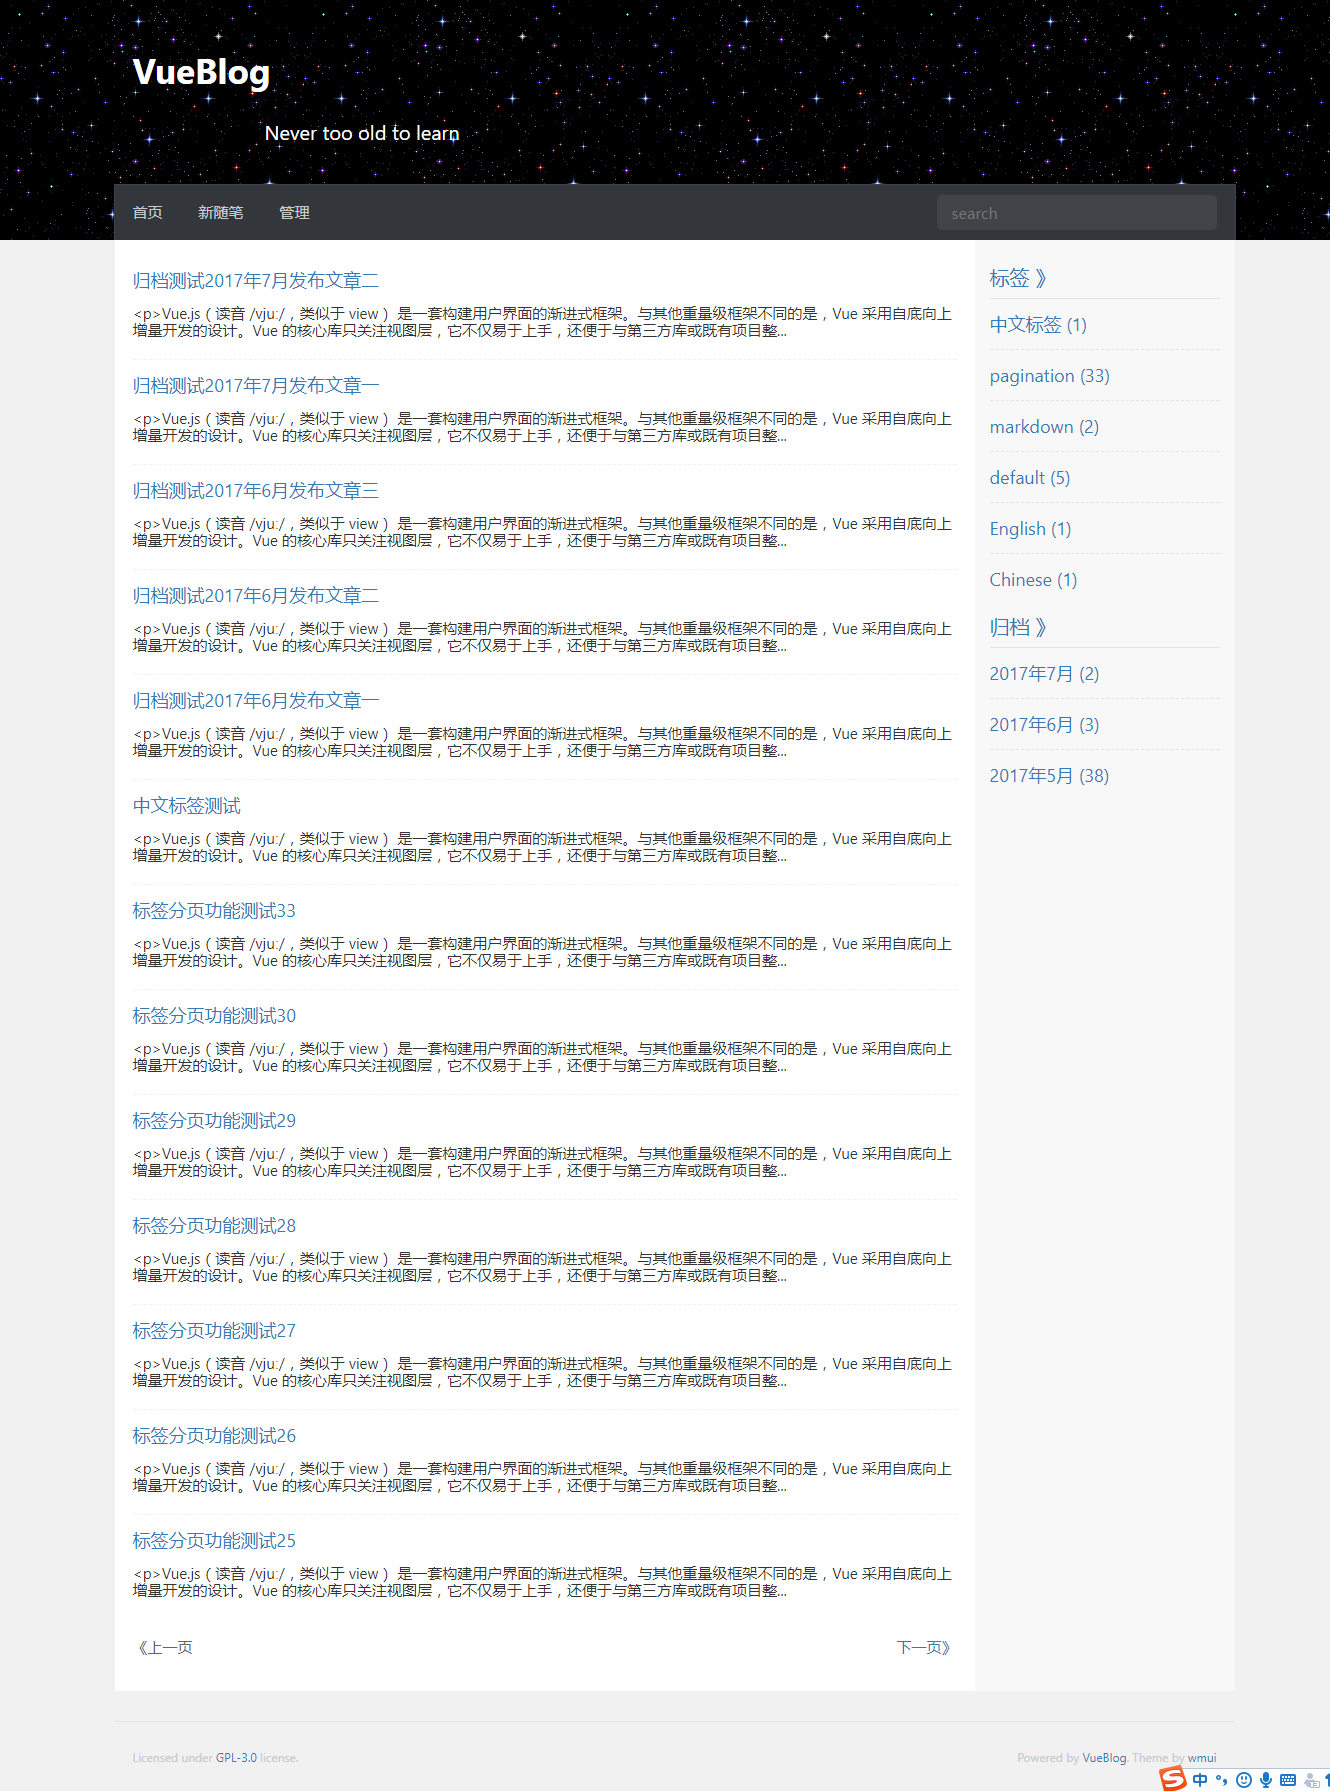
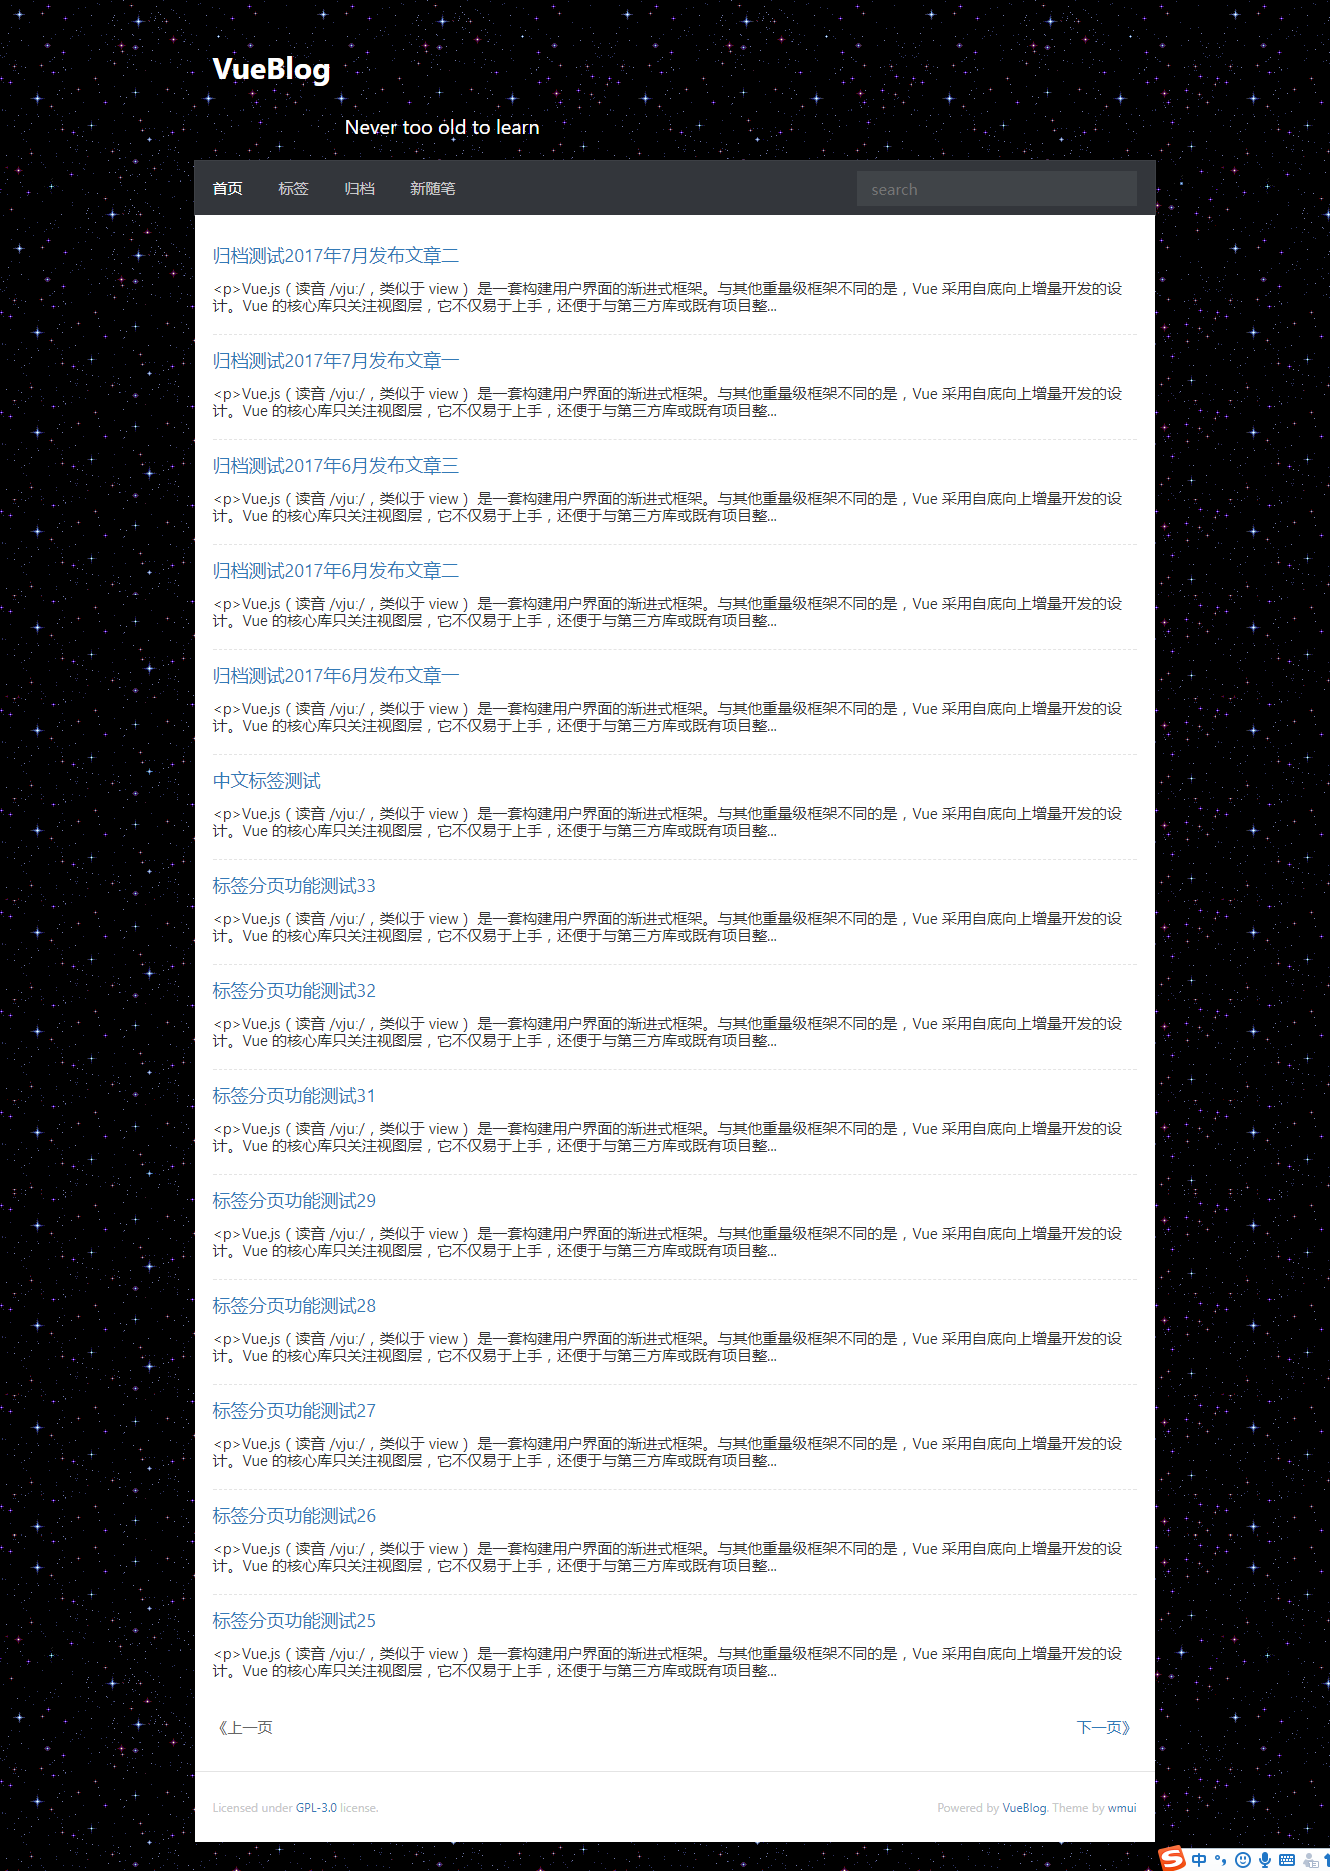
readme

diff --git a/components/Header.vue b/components/Header.vue
@@ -23,7 +23,7 @@ export default {
     return {
       links: [{
         name: '首页',
-        path: '/'
+        path: '/top'
       }, {
         name: '标签',
         path: '/tags'
@@ -56,7 +56,7 @@ export default {
       })
     },
     goIndex () {
-      this.$router.push('/')
+      this.$router.push('/top')
     }
   }
 }

diff --git a/assets/css/main.scss b/assets/css/main.scss
@@ -90,13 +90,13 @@ button {
 /* golbal header */
 
 .header {
-  height: 240px;
+  height: 215px;
   .info {
     margin: 0 auto;
     color: #fff;
-    height: 184px;
+    height: 160px;
     .nickname {
-      font-size: 35px;
+      font-size: 30px;
       font-weight: bold;
       padding: 50px 0 30px 18px;
       cursor: pointer;

diff --git a/README.md b/README.md
@@ -1,7 +1,14 @@
 ## VueBlog v2
-
 ### 前言
-VueBlog从2.0版本开始是采用Nuxt.js开发的，之前的版本是基于Vue.js开发的，可在Tags标签下查看所有版本，为了更好地做到前后端分离，从2.0开始前端和后端分别在不同的仓库。
+VueBlog从2.0版本开始是采用Nuxt.js开发的，之前的版本是基于Vue.js开发的，可在Tags标签下查看所有版本。  
+
+### 导航
+- [演示站](http://vueblog.86886.wang) （服务器不在国内，速度可能稍慢）
+- [线上部署](https://github.com/wmui/web-deploy)
+
+### 版本更新
+- v2.0.0  前后端完全分离，需分别部署前端和后端服务
+- v2.1.0  前后端同构，Node既做渲染服务又做api服务
 
 ### 开发环境和技术栈
 - 操作系统： windows10
@@ -29,20 +36,16 @@ VueBlog从2.0版本开始是采用Nuxt.js开发的，之前的版本是基于Vue
 ![](https://github.com/wmui/vueblog/raw/master/example/upload.png)  
 
 ### 本地运行
-
-- 运行[vueblog-server](https://github.com/wmui/vueblog-server)后端服务
-- 运行vueblog前端服务
+- 安装[MongoDB](https://www.mongodb.com/download-center?jmp=nav#community)数据库和[Node.js](https://nodejs.org/en/)环境
+- 开启数据库服务，以windows电脑为例: 在桌面上新建一个`demo`文件夹，命令行执行`mongod --dbpath c:demo`就成功在本地开启服务了
+- 运行项目
 ```shell
   git clone https://github.com/wmui/vueblog.git
   cd vueblog
   npm install
   npm run dev
-  # 访问http://localhost:3010/
+  # 访问http://localhost:3000/
 ``` 
-
-### 导航
-- [演示站](http://vueblog.86886.wang) 由于服务器不在国内，速度可能稍慢  
-- [线上部署](https://github.com/wmui/web-deploy)
 
 ### 结语
 VueBlog长期更新，由于是个人项目，不建议直接用于线上，欢迎issue，欢迎PR  
